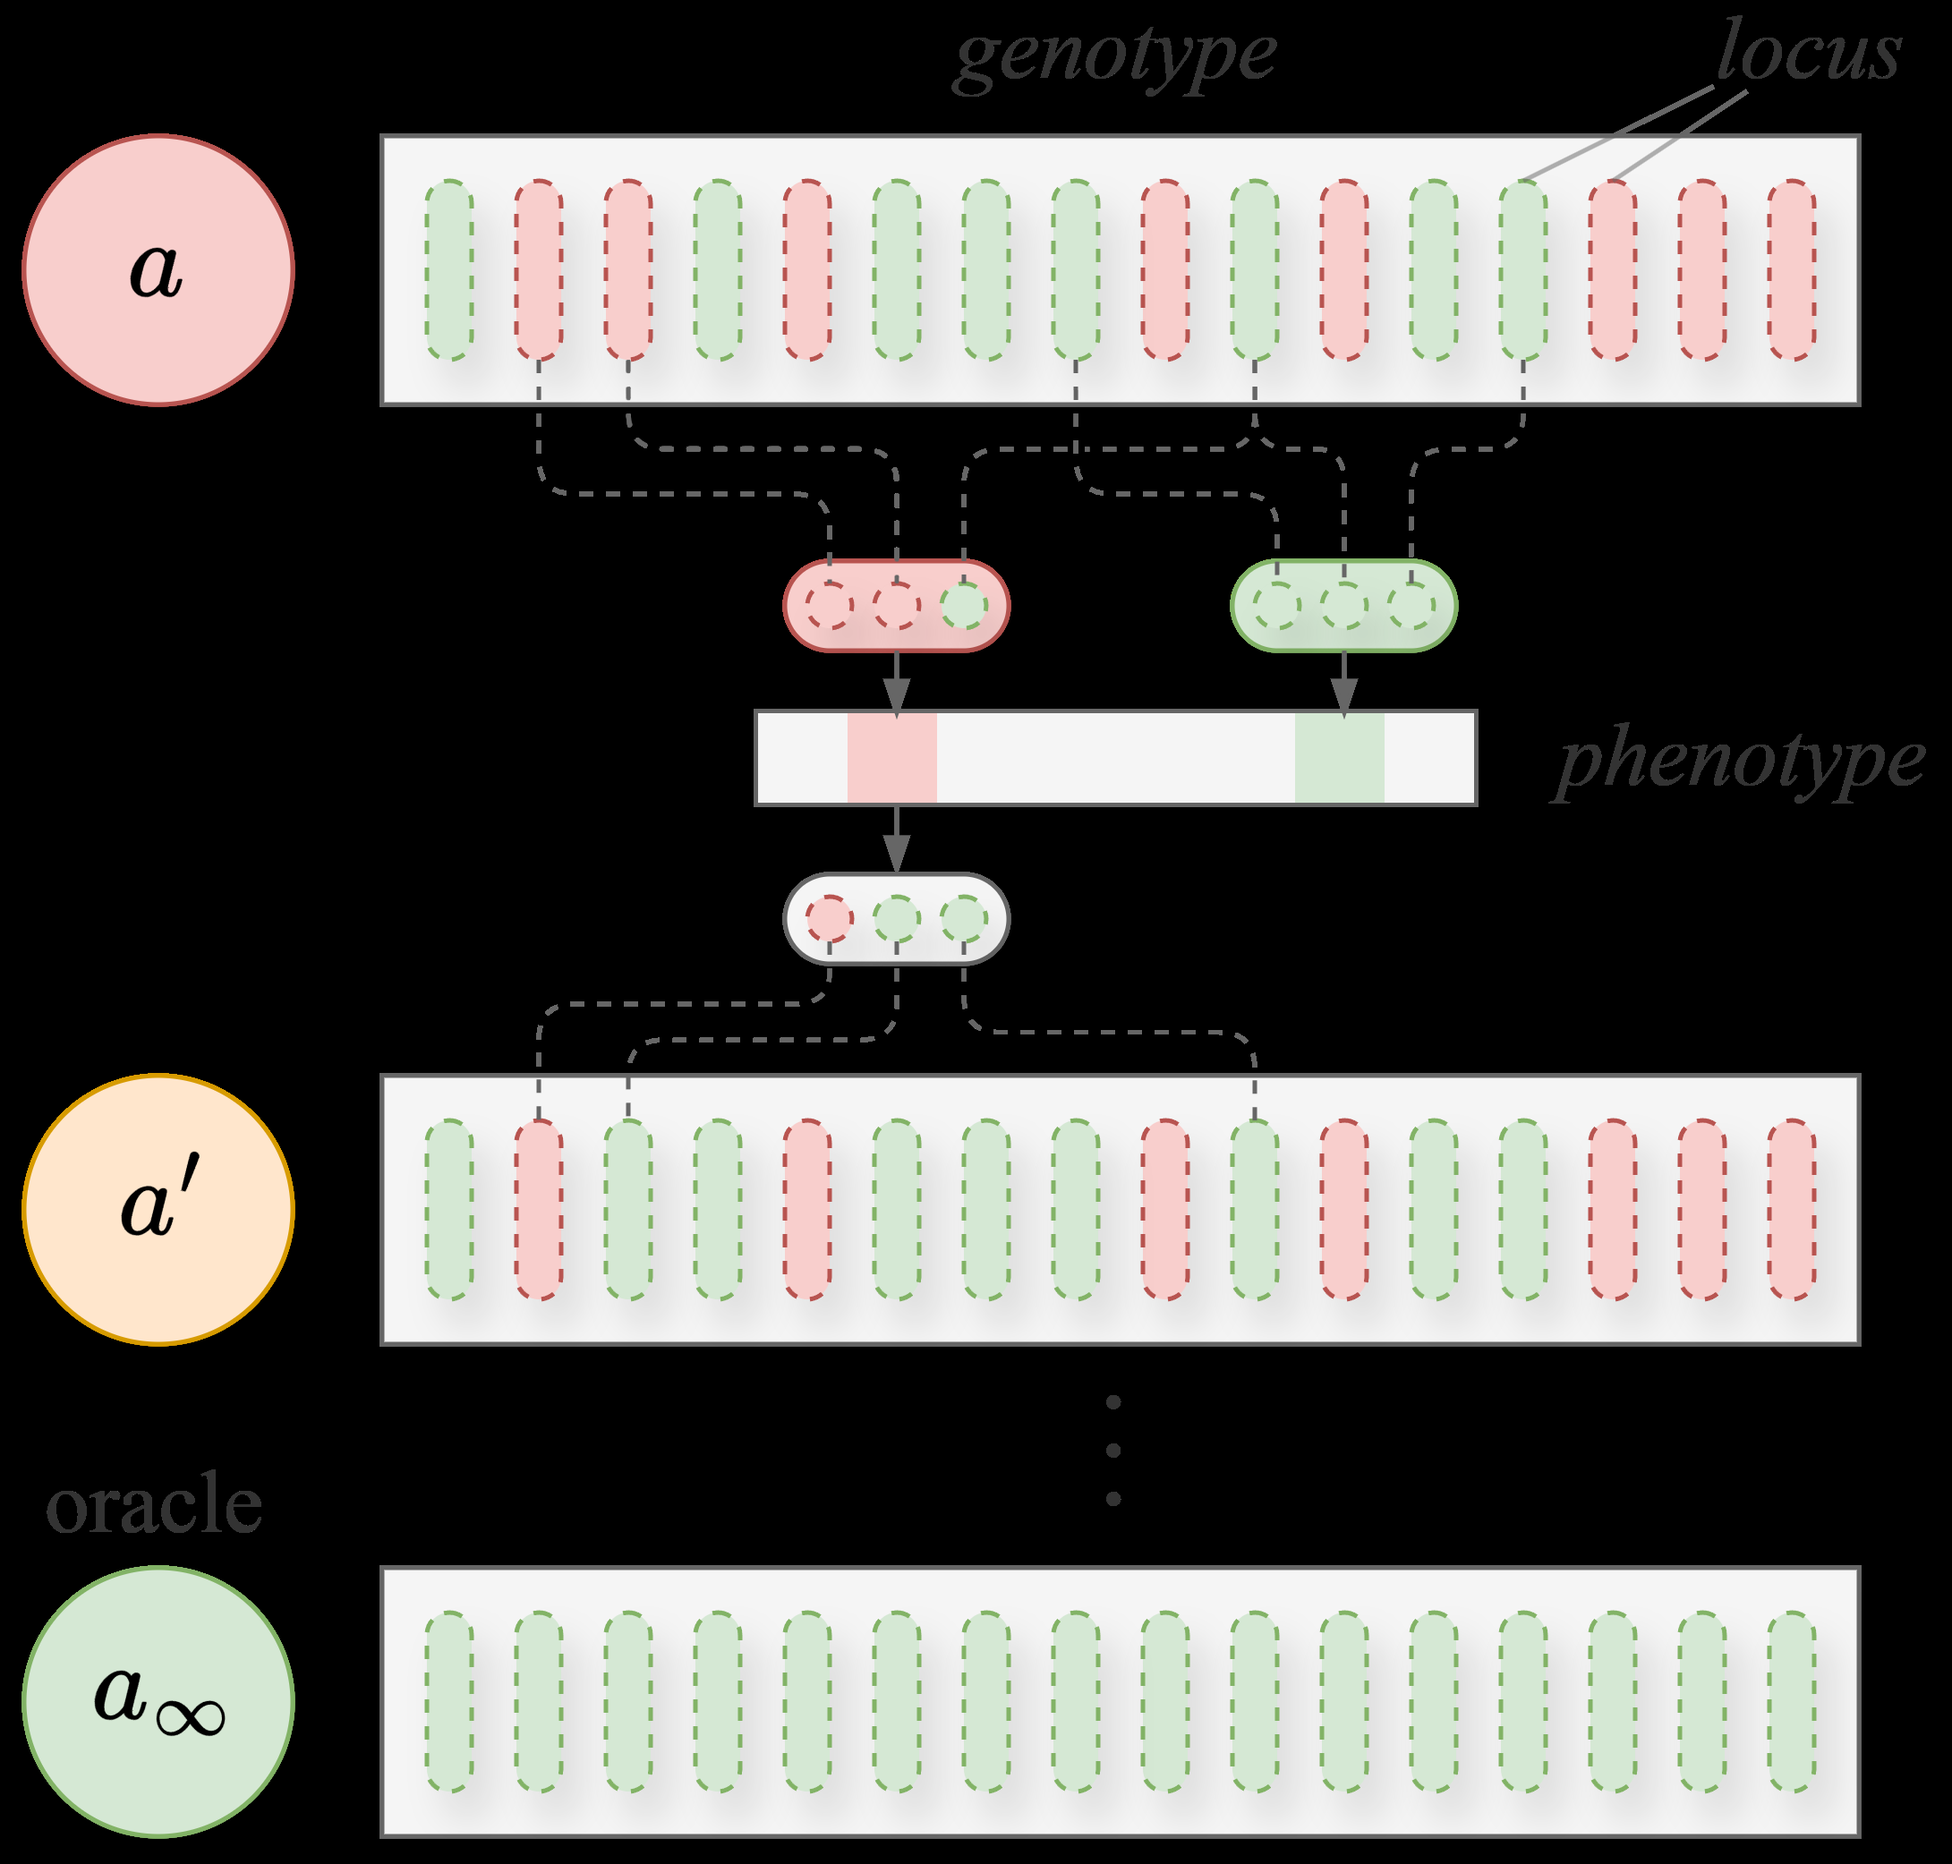
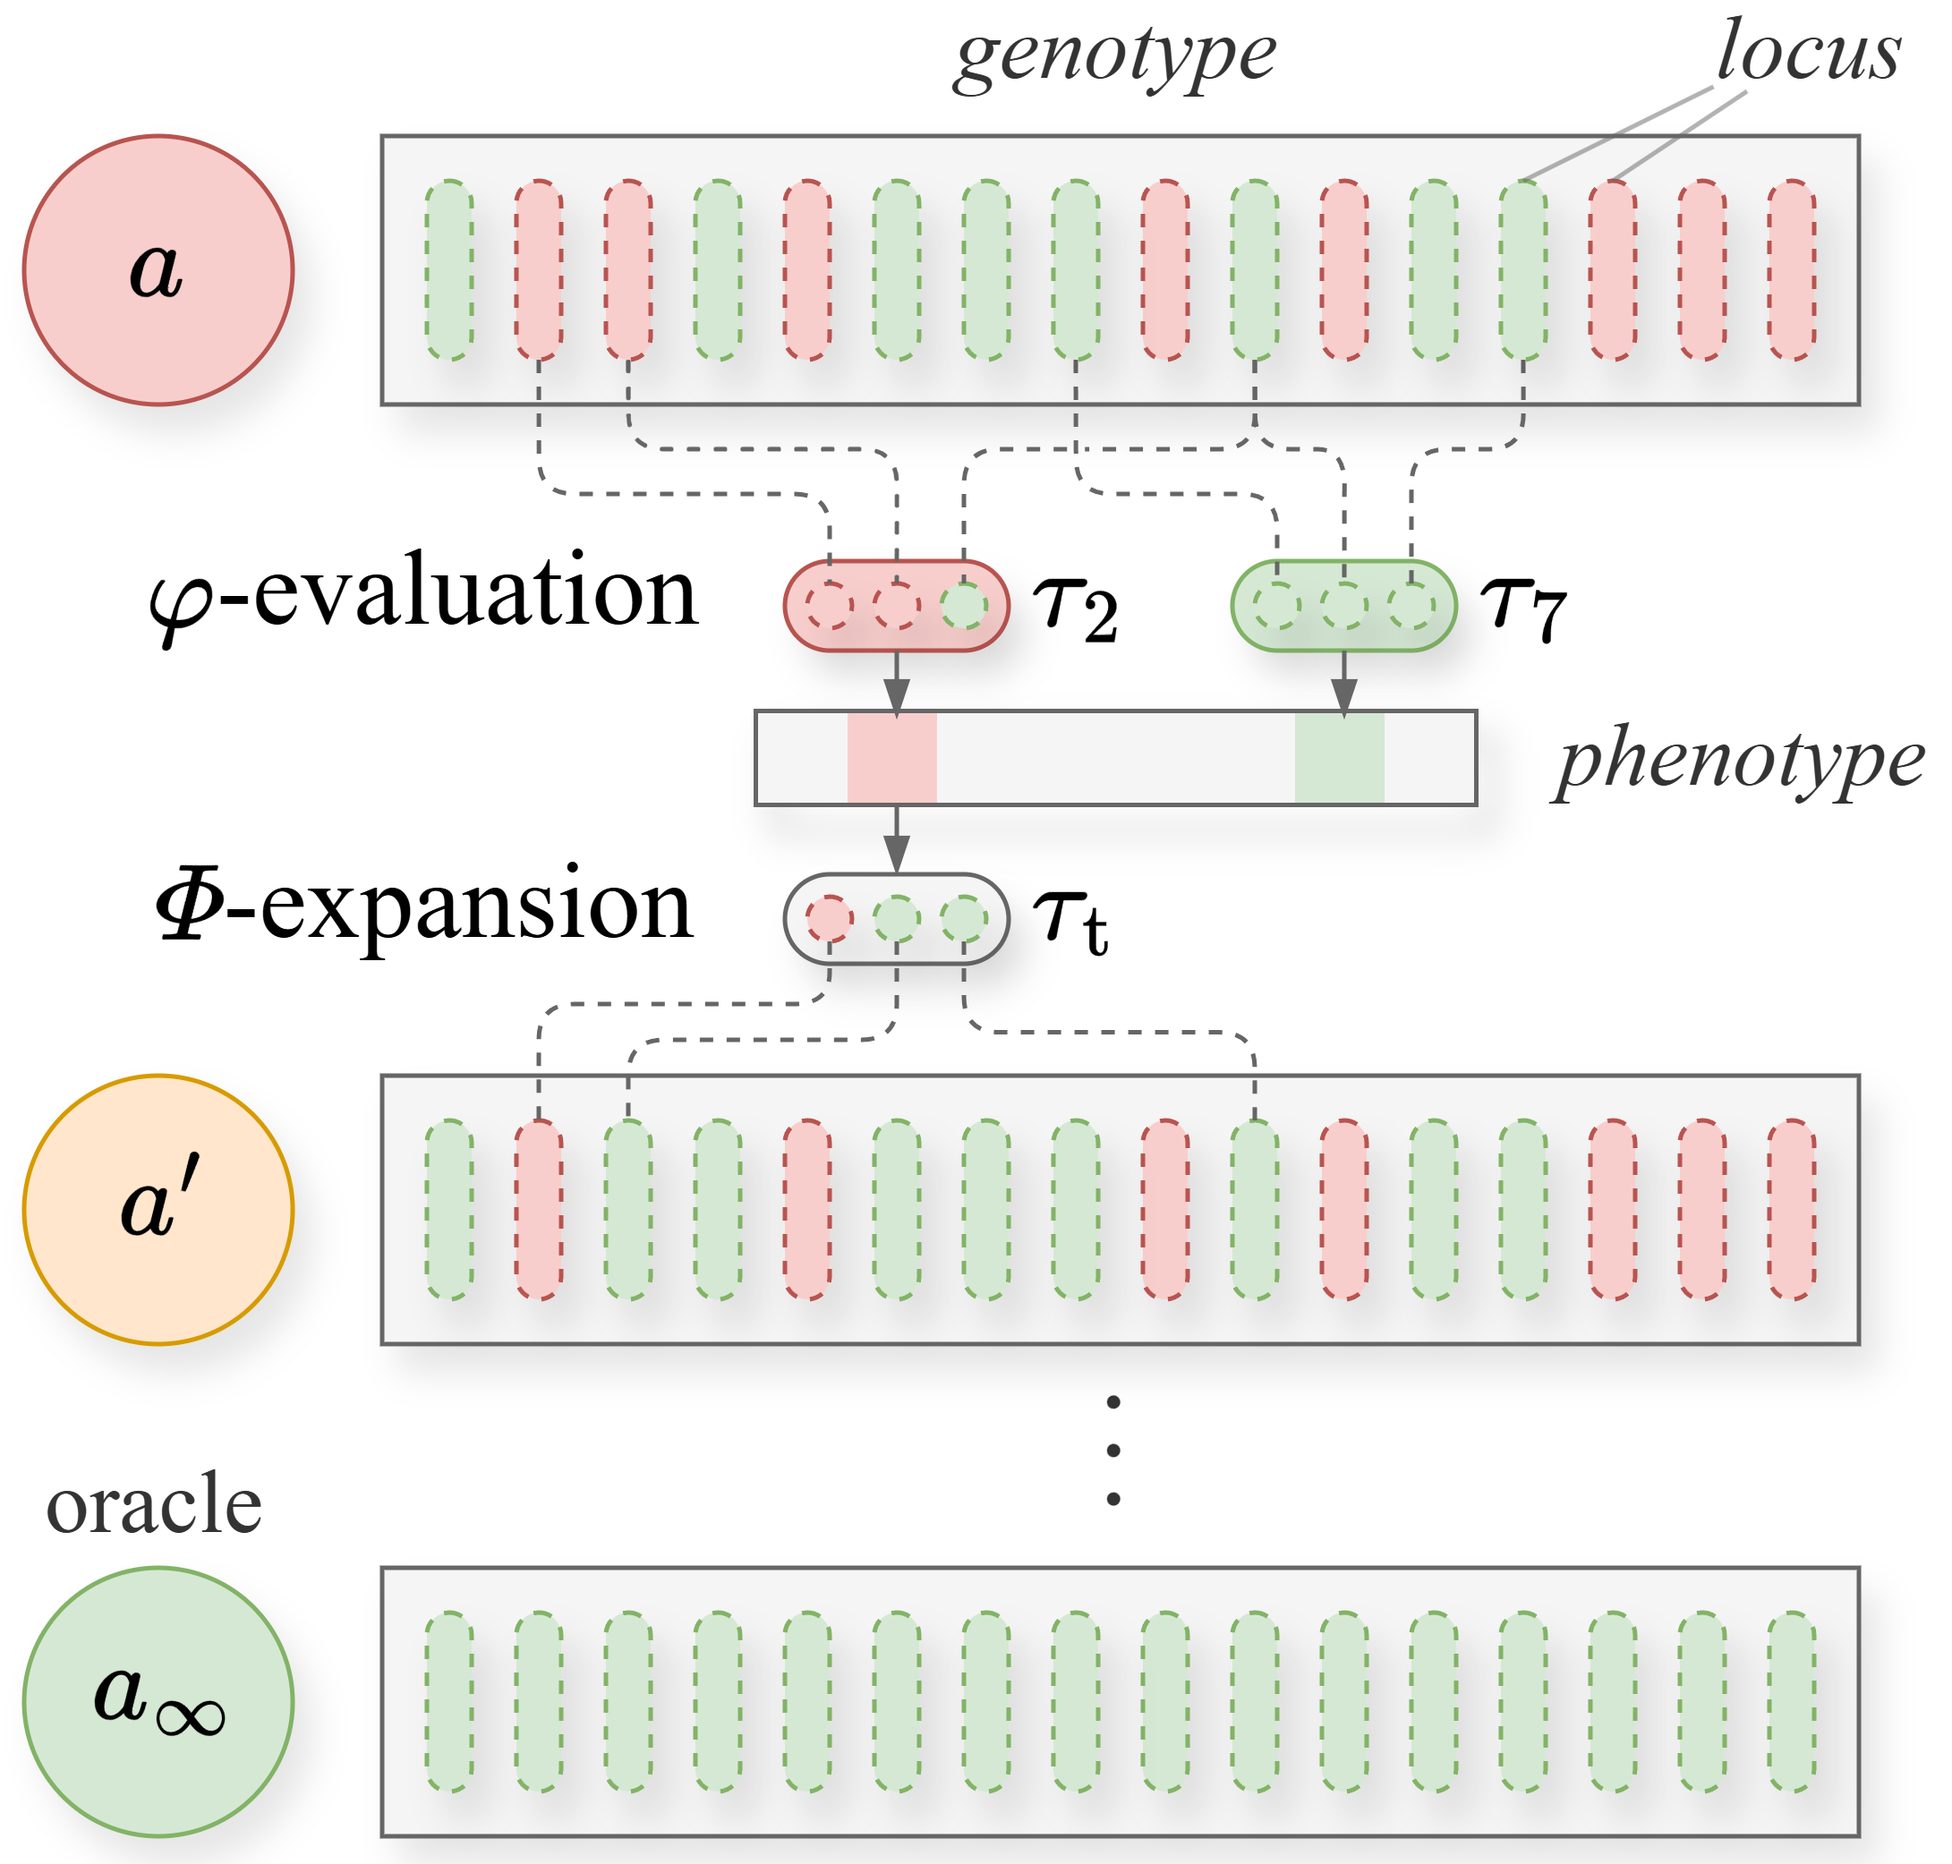
Replace section 6 theory figures with uploaded artwork
Rename the two hash-named uploads to fig3_fitness_landscape.png and
fig4_5_simulation.png so the Theory & Simulation section uses them.

diff --git a/docs/index.html b/docs/index.html
@@ -754,11 +754,11 @@ footer{
     </p>
     <div class="fig-block pair rv">
       <div>
-        <img src="assets/images/fig3_fitness_landscape.png" alt="Additive fitness landscape model illustration" width="1000" height="900" loading="lazy">
+        <img src="assets/images/fig3_fitness_landscape.png" alt="Additive fitness landscape model illustration" width="2181" height="2083" loading="lazy">
         <p class="fig-label"><b>Figure 3.</b> Genotype loci · task subsets · Hamming distance to oracle.</p>
       </div>
       <div>
-        <img src="assets/images/fig4_5_simulation.png" alt="Monte Carlo simulation: MGM vs HGM vs DGM across difficulty and fix-probability ratios" width="1000" height="1200" loading="lazy">
+        <img src="assets/images/fig4_5_simulation.png" alt="Monte Carlo simulation: MGM vs HGM vs DGM across difficulty and fix-probability ratios" width="804" height="398" loading="lazy">
         <p class="fig-label"><b>Figures 4–5.</b> Surrogate search: as diagnostic advantage ρ grows, MGM converges faster with tighter final spread.</p>
       </div>
     </div>
